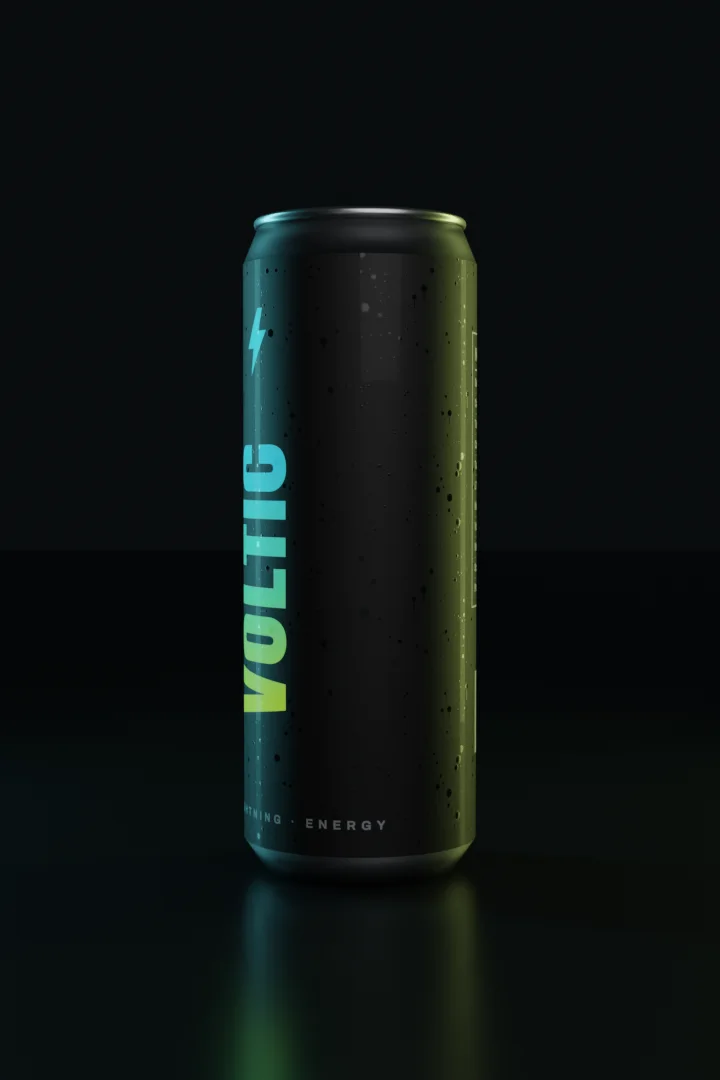
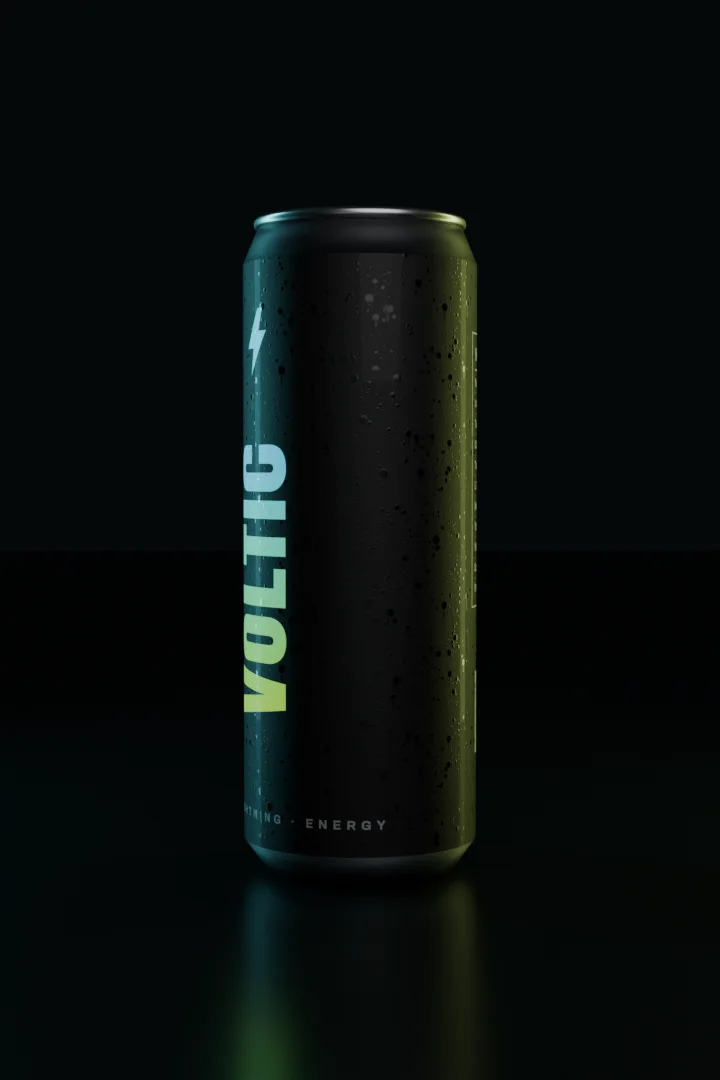
Darker Blender look matched to three.js, denser condensation
Measured first: the means already matched (21.5 vs 19.7) — the 'too
bright' was highlight spike, p90 36 vs 26. So the fix is rolloff, not
exposure: AgX view transform replaces Filmic, rims down ~40%, key
down. Result is now consistently darker than three.js at all four
angles (mean 12-14 vs 18-21) with matched highlights.

Condensation: make-drops.mjs --dense generates Blender-only maps
(2.5x droplet counts) and bump strength 0.25 -> 0.4.

diff --git a/tools/blender-can.py b/tools/blender-can.py
@@ -26,9 +26,9 @@ scene.cycles.use_denoising = True
 scene.render.resolution_x = int(720 * SCALE)
 scene.render.resolution_y = int(1080 * SCALE)
 scene.render.film_transparent = False
-scene.view_settings.view_transform = 'Filmic'
-scene.view_settings.look = 'Medium Contrast'
-scene.view_settings.exposure = -0.85
+scene.view_settings.view_transform = 'AgX'
+scene.view_settings.look = 'AgX - Base Contrast'
+scene.view_settings.exposure = -0.35
 
 # ── world: near-black with a faint top glow ──────────────────────────────
 world = bpy.data.worlds.new('w'); scene.world = world
@@ -50,8 +50,8 @@ def texnode(image, x, y):
     return n
 label = texnode(img(f'{TEX}/blender-label.png'), -600, 300)
 glow = texnode(img(f'{TEX}/blender-glow.png'), -600, 0)
-rough = texnode(img(f'{TEX}/blender-drops-rough.png', True), -600, -300)
-height = texnode(img(f'{TEX}/blender-drops-height.png', True), -600, -600)
+rough = texnode(img(f'{TEX}/blender-drops-rough-dense.png', True), -600, -300)
+height = texnode(img(f'{TEX}/blender-drops-height-dense.png', True), -600, -600)
 # tile the droplet maps like the web version
 mapping = nt.nodes.new('ShaderNodeMapping'); mapping.location = (-820, -450)
 mapping.inputs['Scale'].default_value = (2.5, 2.0, 1)
@@ -62,7 +62,7 @@ nt.links.new(mapping.outputs[0], height.inputs[0])
 for t in (rough, height):
     t.extension = 'REPEAT'
 bump = nt.nodes.new('ShaderNodeBump'); bump.location = (-300, -600)
-bump.inputs['Strength'].default_value = 0.25
+bump.inputs['Strength'].default_value = 0.4
 nt.links.new(height.outputs['Color'], bump.inputs['Height'])
 nt.links.new(label.outputs['Color'], p.inputs['Base Color'])
 nt.links.new(rough.outputs['Color'], p.inputs['Roughness'])
@@ -175,9 +175,9 @@ def area(name, loc, color, power, size, size_y=None):
     c = o.constraints.new('TRACK_TO')
     c.target = target; c.track_axis = 'TRACK_NEGATIVE_Z'; c.up_axis = 'UP_Y'
     return o
-area('key', (0.9, -2.6, 1.9), (1, 1, 1), 55, 2.4, 3.4)
-area('cyan', (-2.6, 1.2, 0.4), (0.18, 0.85, 0.96), 150, 0.5, 4.5)
-area('lime', (2.6, 1.3, 0.2), (0.72, 0.91, 0.24), 125, 0.5, 4.5)
+area('key', (0.9, -2.6, 1.9), (1, 1, 1), 42, 2.4, 3.4)
+area('cyan', (-2.6, 1.2, 0.4), (0.18, 0.85, 0.96), 95, 0.5, 4.5)
+area('lime', (2.6, 1.3, 0.2), (0.72, 0.91, 0.24), 80, 0.5, 4.5)
 area('fill', (0, -3.2, -0.5), (0.57, 0.64, 0.68), 8, 3)
 
 # ── camera: matches the three.js framing ─────────────────────────────────
